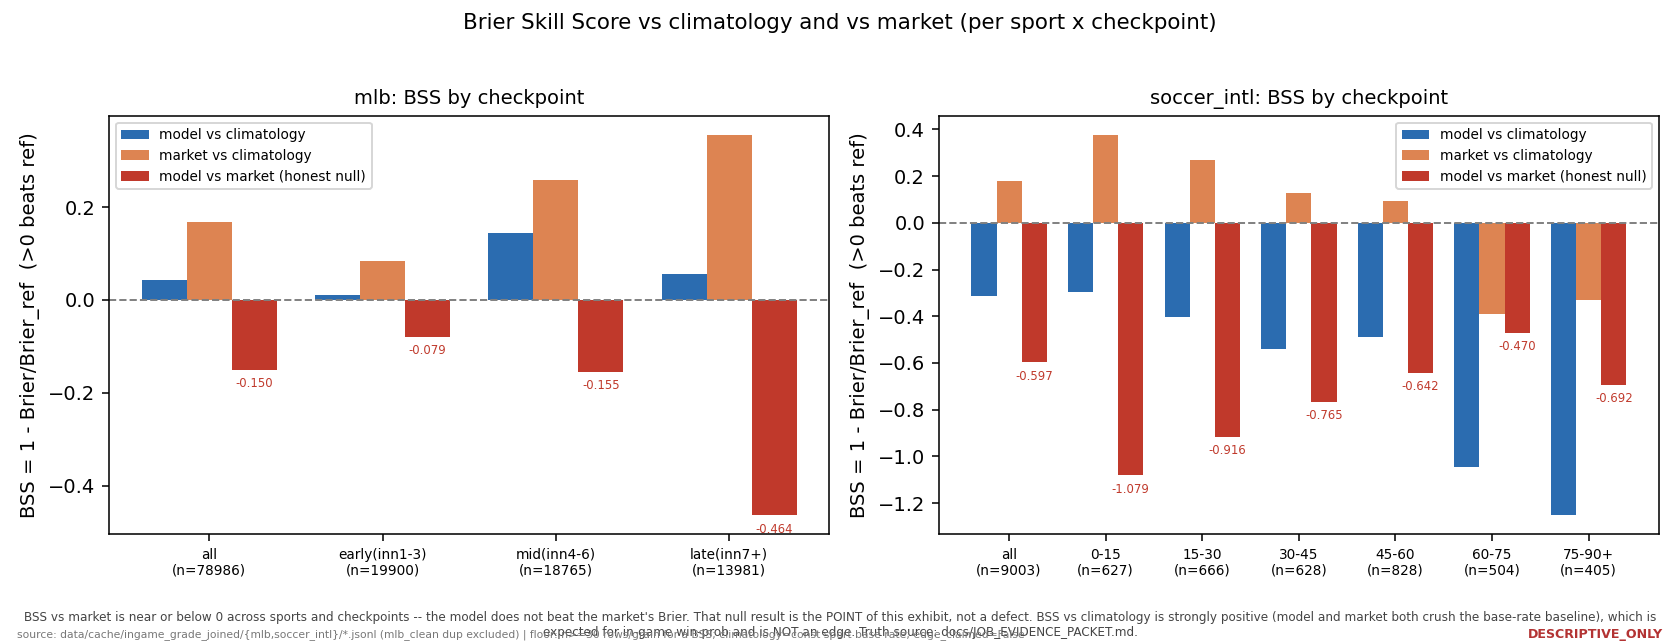
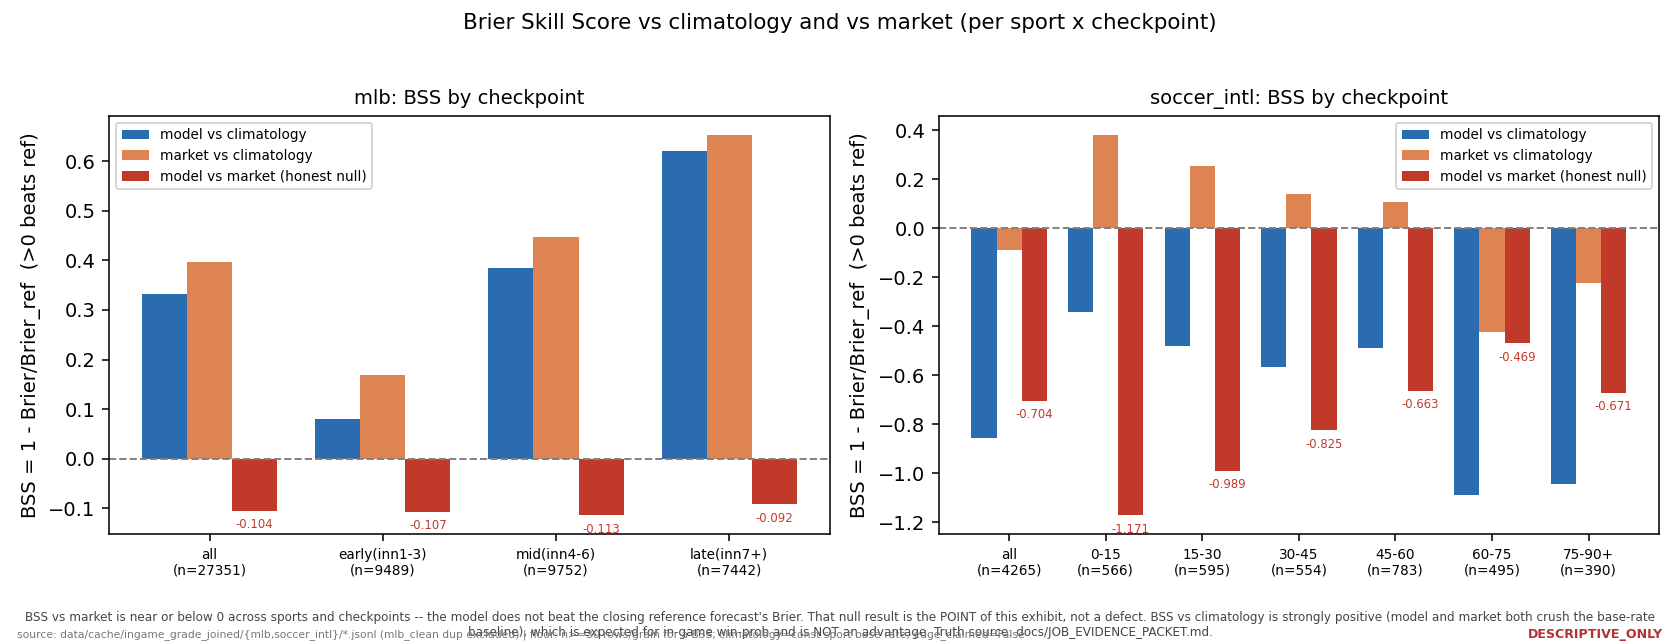
analytics: every chart for a regenerated artifact is re-rendered from its published JSON (replot_from_json.py drives each producer's own plot function; 10 docs/img PNGs changed, 17 served PNGs restaged) and a parity test asserts every module chart is present and not older than its artifact's as_of

diff --git a/webapp/lib/analytics/chartArtifactParity.test.ts b/webapp/lib/analytics/chartArtifactParity.test.ts
@@ -1,0 +1,52 @@
+// Chart/artifact parity: the served PNG must not predate the artifact it draws.
+//
+// The failure this guards: an artifact gets regenerated (revision 2) while its
+// docs/img PNG stays at revision 1, so the module page and the paper figures
+// print numbers the JSON no longer holds. The PNGs are matplotlib output and
+// carry NO embedded date (only a "Software: Matplotlib ..." tEXt chunk), so
+// there is no in-file provenance to compare -- this test asserts file presence
+// in the served directory plus file mtime >= the module's published as_of date
+// instead. Regenerate a stale chart with
+//   python -m scripts.platformkit.analytics_showcase.replot_from_json <id> --stage
+import { existsSync, statSync } from "node:fs";
+import { join } from "node:path";
+import { describe, expect, it } from "vitest";
+import { snapshot } from "./labHelpers";
+import { getPublishedChartPresentation } from "./publishedChartPresentation";
+
+type ManifestModule = { id: string; chart_path?: string | null; as_of?: string | null };
+
+const served = (chartPath: string) => join(process.cwd(), "public/img/showcase", chartPath.split(/[\\/]/).pop() || "");
+const day = (value: string | null | undefined) => (value || "").slice(0, 10);
+const mtimeDay = (path: string) => new Date(statSync(path).mtimeMs).toISOString().slice(0, 10);
+
+describe("published chart / artifact parity", () => {
+  const modules = snapshot<{ modules: ManifestModule[] }>("site_manifest").modules;
+  const charted = modules.filter(entry => !!entry.chart_path);
+
+  it("serves a PNG for every module the manifest gives a chart_path", () => {
+    expect(charted.length).toBeGreaterThan(50);
+    const missing = charted.filter(entry => !existsSync(served(entry.chart_path!)));
+    expect(missing.map(entry => entry.id)).toEqual([]);
+  });
+
+  it("never serves a chart image older than its artifact's as_of", () => {
+    const stale = charted
+      .map(entry => ({ id: entry.id, asOf: day(entry.as_of), png: mtimeDay(served(entry.chart_path!)) }))
+      .filter(row => row.asOf && row.png < row.asOf);
+    expect(stale).toEqual([]);
+  });
+
+  it("keeps the regenerated revision-2 artifacts charted and approved", () => {
+    const regenerated = ["brier_skill_scores", "calibration_by_market_type", "calibration_over_time", "calibration_stability",
+      "info_arrival_curve", "market_disagreement_profile", "market_overreaction", "residual_anatomy",
+      "residual_autocorrelation", "soccer_calibration_pack", "blowout_dynamics", "comeback_atlas", "kernel_transfer",
+      "market_convergence", "novel_live_clock_fraction", "novel_market_foresight_premium", "why_attribution"];
+    regenerated.forEach(id => {
+      const entry = modules.find(module => module.id === id);
+      expect(entry?.chart_path, id).toBeTruthy();
+      expect(existsSync(served(entry!.chart_path!)), id).toBe(true);
+      expect(getPublishedChartPresentation(id).approved, id).toBe(true);
+    });
+  });
+});

diff --git a/scripts/platformkit/analytics_showcase/replot_from_json.py b/scripts/platformkit/analytics_showcase/replot_from_json.py
@@ -1,0 +1,154 @@
+"""Re-render a showcase chart PNG from its ALREADY-PUBLISHED out/<id>.json.
+
+Why this exists: several analytics artifacts were regenerated (revision 2) from
+a re-segmented corpus, but their docs/img PNGs were left at revision 1, so the
+module page and the paper figures printed numbers the artifact no longer holds.
+Re-running the producers would need the raw corpus AND would rewrite the JSON;
+this driver instead calls each producer's own plot function with the published
+JSON, so the picture can only ever show what the artifact says. No JSON is
+written here, ever.
+
+ponytail: one dispatch table instead of a --plot-only flag bolted onto 17
+producers. Add a module by adding one row to PLOTTERS.
+
+Run:   python -m scripts.platformkit.analytics_showcase.replot_from_json --all
+       python -m scripts.platformkit.analytics_showcase.replot_from_json calibration_stability
+       python -m scripts.platformkit.analytics_showcase.replot_from_json --all --stage
+Check: python -m scripts.platformkit.analytics_showcase.replot_from_json --check
+"""
+import argparse
+import hashlib
+import importlib
+import json
+import os
+import shutil
+import sys
+
+os.environ.setdefault("MPLBACKEND", "Agg")
+
+REPO_ROOT = os.path.dirname(os.path.dirname(os.path.dirname(os.path.dirname(os.path.abspath(__file__)))))
+OUT_DIR = os.path.join(REPO_ROOT, "scripts", "platformkit", "analytics_showcase", "out")
+IMG_DIR = os.path.join(REPO_ROOT, "docs", "img")
+STAGE_DIR = os.path.join(REPO_ROOT, "webapp", "public", "img", "showcase")
+PKG = "scripts.platformkit.analytics_showcase."
+
+
+def _int_keys(d):
+    """JSON turns int checkpoint keys into strings; plot code sorts + plots them
+    numerically, so put them back when every key is an integer."""
+    if isinstance(d, dict) and d and all(str(k).lstrip("-").isdigit() for k in d):
+        return {int(k): v for k, v in d.items()}
+    return d
+
+
+def _dict_values_only(d):
+    """calibration_over_time.json is sport -> months plus scalar as_of/corpus."""
+    return {k: v for k, v in d.items() if isinstance(v, dict)}
+
+
+def _live(buckets):
+    return {k: v for k, v in buckets.items() if isinstance(v, dict) and v.get("status") != "no_data"}
+
+
+# id -> (producer module suffix, callable(module, published_json) -> renders OUT_PNG)
+PLOTTERS = {
+    "brier_skill_scores": lambda m, d: m.make_plot(d),
+    "calibration_stability": lambda m, d: m.make_plot(d),
+    "market_disagreement_profile": lambda m, d: m.make_plot(d),
+    "soccer_calibration_pack": lambda m, d: m.make_plot(d),
+    "blowout_dynamics": lambda m, d: m.make_plot(d),
+    "kernel_transfer": lambda m, d: m.plot(d),
+    "novel_live_clock_fraction": lambda m, d: m.plot(d),
+    "novel_market_foresight_premium": lambda m, d: m.plot(d),
+    "calibration_by_market_type": lambda m, d: m.make_chart(d["market_types"]),
+    "residual_anatomy": lambda m, d: m.make_chart(d["ranked_worst_segments"], m.OUT_PNG),
+    "residual_autocorrelation": lambda m, d: m.make_chart(d["sports"], m.OUT_PNG),
+    "why_attribution": lambda m, d: m.make_chart(d, m.OUT_PNG),
+    "calibration_over_time": lambda m, d: m.plot(_dict_values_only(d), m.OUT_PNG),
+    "info_arrival_curve": lambda m, d: m.plot({s: _int_keys(v) for s, v in d["checkpoints"].items()}, m.OUT_PNG),
+    "market_convergence": lambda m, d: m.plot({s: _int_keys(v) for s, v in d["checkpoints"].items()}, m.OUT_PNG),
+    "market_overreaction": lambda m, d: m.plot(_live(d["buckets"]), m.OUT_PNG),
+    "comeback_atlas": lambda m, d: m._render_png(d, m._OUT_PNG),
+}
+
+
+def md5(path):
+    if not os.path.exists(path):
+        return None
+    with open(path, "rb") as f:
+        return hashlib.md5(f.read()).hexdigest()
+
+
+def png_path(module_id):
+    return os.path.join(IMG_DIR, module_id + ".png")
+
+
+def replot(module_id, stage=False):
+    """Render docs/img/<id>.png from out/<id>.json. Returns a result row."""
+    if module_id not in PLOTTERS:
+        raise KeyError("no plot dispatch for " + module_id)
+    json_path = os.path.join(OUT_DIR, module_id + ".json")
+    with open(json_path, encoding="utf-8") as f:
+        data = json.load(f)
+    out_png = png_path(module_id)
+    before = md5(out_png)
+    mod = importlib.import_module(PKG + module_id)
+    PLOTTERS[module_id](mod, data)
+    after = md5(out_png)
+    if after is None:
+        raise RuntimeError("plot function wrote no PNG for " + module_id)
+    row = {
+        "id": module_id,
+        "as_of": data.get("as_of") or data.get("generated_at"),
+        "md5_before": before,
+        "md5_after": after,
+        "changed": before != after,
+        "staged": False,
+    }
+    if stage:
+        os.makedirs(STAGE_DIR, exist_ok=True)
+        shutil.copy2(out_png, os.path.join(STAGE_DIR, module_id + ".png"))
+        row["staged"] = md5(os.path.join(STAGE_DIR, module_id + ".png")) == after
+    return row
+
+
+def check():
+    """Self-check: every dispatch row names a real artifact whose producer
+    exposes the callable we dispatch to, and rendering one module from its
+    published JSON leaves that JSON untouched."""
+    for module_id in PLOTTERS:
+        assert os.path.exists(os.path.join(OUT_DIR, module_id + ".json")), "missing artifact " + module_id
+        importlib.import_module(PKG + module_id)
+    target = "market_overreaction"
+    json_path = os.path.join(OUT_DIR, target + ".json")
+    before_json = md5(json_path)
+    row = replot(target)
+    assert row["md5_after"], row
+    assert md5(json_path) == before_json, "replot must never rewrite " + json_path
+    assert _int_keys({"10": 1, "2": 1}) == {10: 1, 2: 1}
+    assert _int_keys({"a": 1}) == {"a": 1}
+    assert _dict_values_only({"mlb": {}, "as_of": "2026-09-16"}) == {"mlb": {}}
+    assert _live({"a": {"status": "no_data"}, "b": {"n": 1}}) == {"b": {"n": 1}}
+    print("OK: replot_from_json self-check passed")
+
+
+def main(argv=None):
+    ap = argparse.ArgumentParser()
+    ap.add_argument("ids", nargs="*", help="module ids to replot")
+    ap.add_argument("--all", action="store_true", help="replot every dispatchable module")
+    ap.add_argument("--stage", action="store_true", help="also copy the PNG to webapp/public/img/showcase/")
+    ap.add_argument("--check", action="store_true")
+    args = ap.parse_args(argv)
+    if args.check:
+        check()
+        return 0
+    ids = sorted(PLOTTERS) if args.all else args.ids
+    if not ids:
+        ap.error("pass module ids or --all")
+    rows = [replot(i, stage=args.stage) for i in ids]
+    print(json.dumps(rows, indent=2))
+    return 0
+
+
+if __name__ == "__main__":
+    sys.exit(main())
